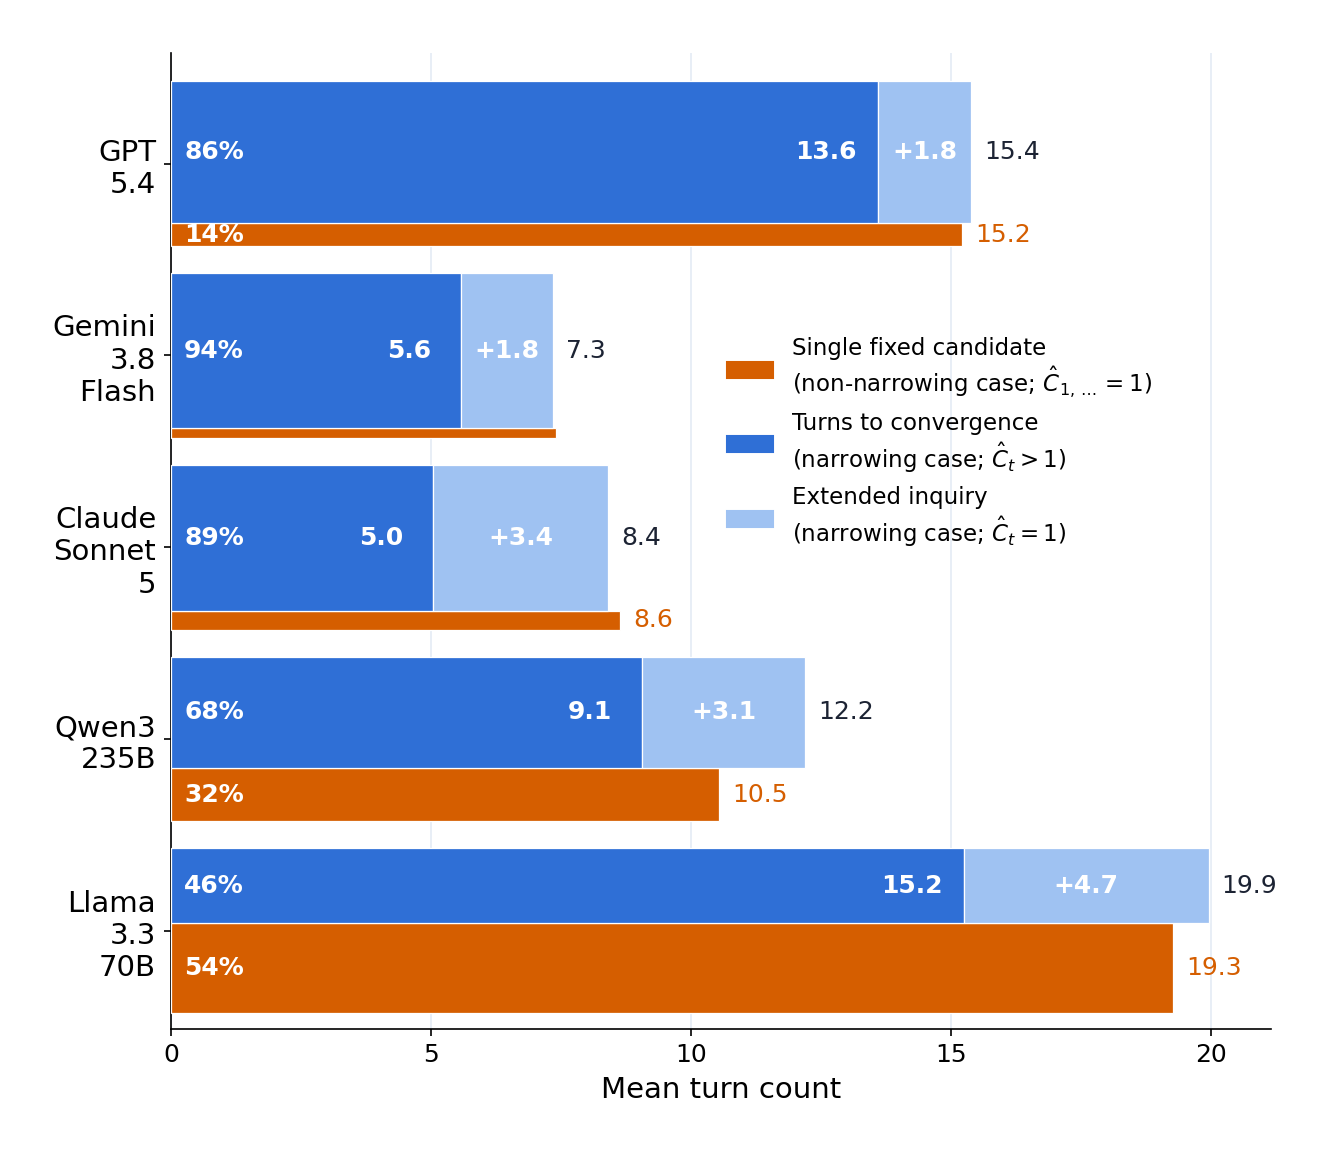
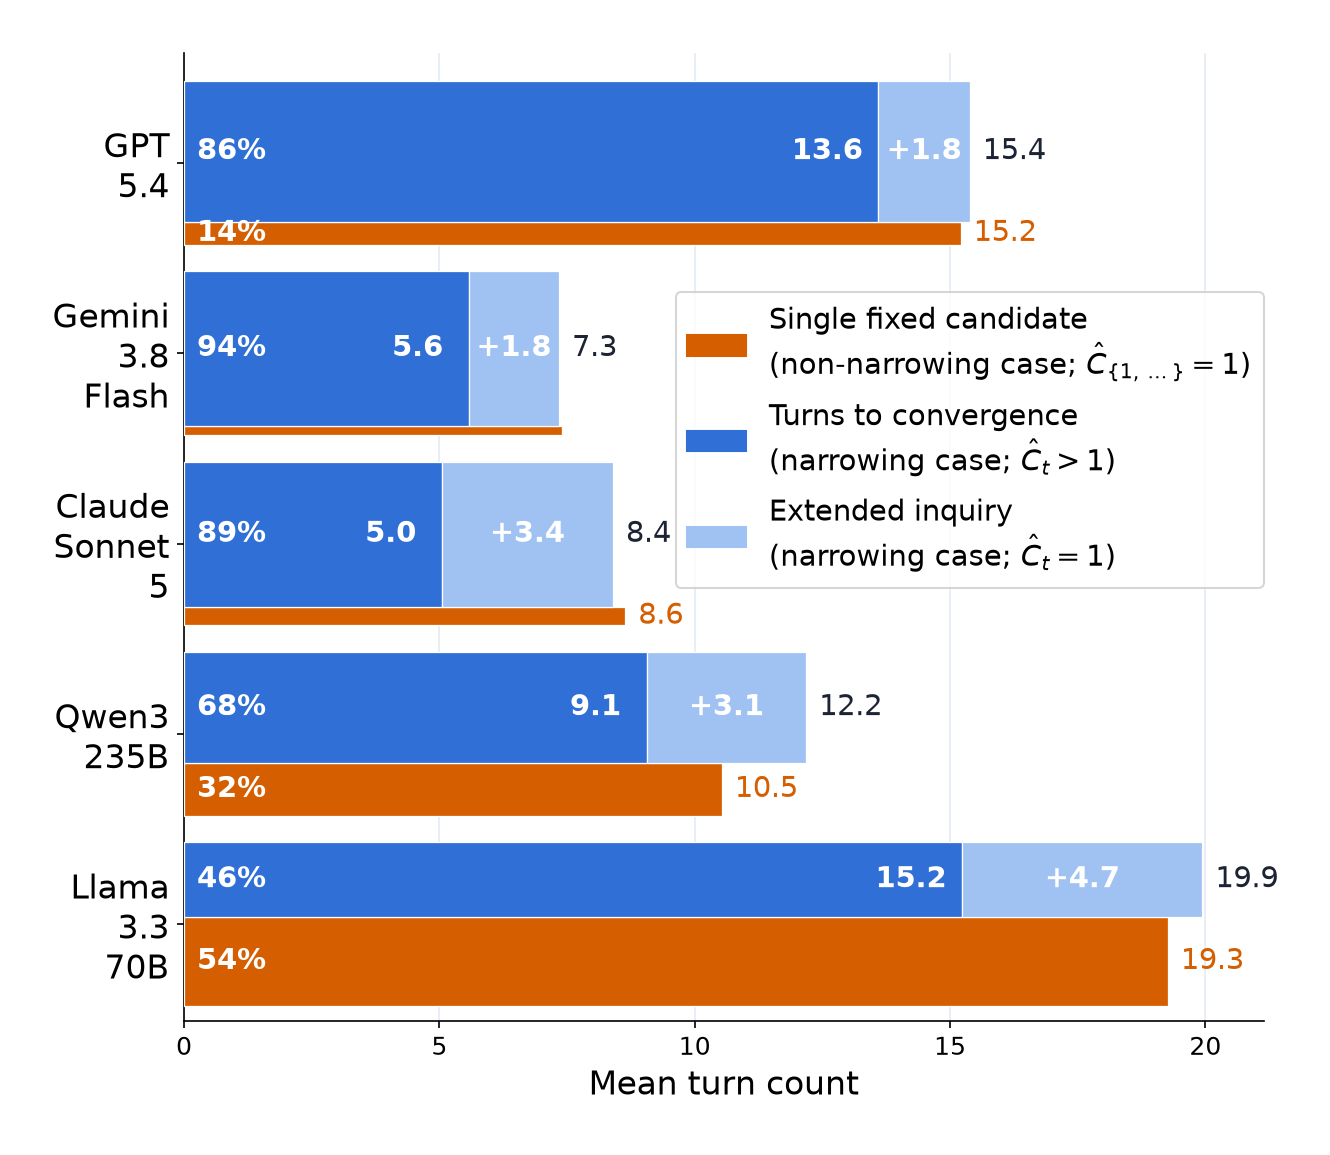
turn and overcommitment - bar

diff --git a/reporting/plot_overcommitment_marimekko.py b/reporting/plot_overcommitment_marimekko.py
@@ -120,7 +120,7 @@ def main() -> None:
                 if pinned_h > 0.06:
                     ax.text(pinned_mean + ymax * 0.012, slot_bottom + pinned_h / 2,
                             f"{pinned_mean:.1f}", ha="left", va="center", 
-                            fontsize=12,
+                            fontsize=14,
                               color=COLOR_PINNED)
 
             if narrow_h > 0:
@@ -132,26 +132,26 @@ def main() -> None:
                 # (matches plot_overcommitment_by_judge.py's labeling)
                 if narrow_h > 0.10 and t1c > ymax * 0.04:
                     ax.text(t1c - 1, slot_bottom + pinned_h + narrow_h / 2,
-                            f"{t1c:.1f}", ha="center", va="center", fontsize=12, color="white", fontweight="bold")
+                            f"{t1c:.1f}", ha="center", va="center", fontsize=14, color="white", fontweight="bold")
                 # overcommitment (turns after 1st confident) value, centered
                 # in its own segment — same convention as the t1c label above.
                 if narrow_h > 0.10 and oc > ymax * 0.04:
                     ax.text(t1c + oc / 2, slot_bottom + pinned_h + narrow_h / 2,
-                            f"+{oc:.1f}", ha="center", va="center", fontsize=12,
+                            f"+{oc:.1f}", ha="center", va="center", fontsize=14,
                             color="white", fontweight="bold")
                 if narrow_h > 0.06:
                     ax.text(t1c + oc + ymax * 0.012, slot_bottom + pinned_h + narrow_h / 2,
-                            f"{t1c + oc:.1f}", ha="left", va="center", fontsize=12, color="#1C2333")
+                            f"{t1c + oc:.1f}", ha="left", va="center", fontsize=14, color="#1C2333")
 
             # share labels inside the base of each bar (white, small) rather
             # than past the bar's end, which would collide with the value
             # label placed there.
             if pinned_h > 0.10 and pinned_mean > ymax * 0.04:
                 ax.text(ymax * 0.012, slot_bottom + pinned_h / 2, f"{pinned_frac*100:.0f}%",
-                        ha="left", va="center", fontsize=12, color="white", fontweight="bold")
+                        ha="left", va="center", fontsize=14, color="white", fontweight="bold")
             if narrow_h > 0.10 and (t1c + oc) > ymax * 0.04:
                 ax.text(ymax * 0.012, slot_bottom + pinned_h + narrow_h / 2, f"{narrow_frac*100:.0f}%",
-                        ha="left", va="center", fontsize=12, color="white", fontweight="bold")
+                        ha="left", va="center", fontsize=14, color="white", fontweight="bold")
 
         # Break each canonical name onto two lines (before the last word) so
         # long names don't force extra left margin on the y-axis.
@@ -161,7 +161,7 @@ def main() -> None:
 
         ax.set_yticks([(n_rows - 1 - i) * SLOT_GAP + SLOT_WIDTH / 2 for i in range(n_rows)])
         ax.set_yticklabels(
-            [_break_name(DOCTOR_NAME_CANONICAL.get(d, d)) for d, _s in rows], fontsize=14
+            [_break_name(DOCTOR_NAME_CANONICAL.get(d, d)) for d, _s in rows], fontsize=16
         )
         legend_band = 0.15
         ax.set_ylim(-0.08, (n_rows - 1) * SLOT_GAP + SLOT_WIDTH + legend_band)
@@ -170,20 +170,20 @@ def main() -> None:
         # ax.set_title(f"Judge: {judge}", fontsize=12.5, fontweight="bold", pad=10)
         ax.grid(axis="x", color="#E4EBF5", linewidth=0.8, zorder=0)
         ax.spines[["top", "right"]].set_visible(False)
-        ax.set_xlabel("Mean turn count", fontsize=14)
+        ax.set_xlabel("Mean turn count", fontsize=16)
         ax.tick_params(axis="x", labelsize=12)
 
         handles = [
             plt.Rectangle((0, 0), 1, 1, color=COLOR_PINNED,
-                          label="Single fixed candidate\n" + r"(non-narrowing case; $\hat{C}_{1,\dots}=1$)"),
+                          label="Single fixed candidate\n" + r"(non-narrowing case; $\hat{C}_{\{1,\dots\}}=1$)"),
             plt.Rectangle((0, 0), 1, 1, color=COLOR_CONFIDENT,
                           label="Turns to convergence\n" + r"(narrowing case; $\hat{C}_t > 1$)"),
             plt.Rectangle((0, 0), 1, 1, color=COLOR_OVERCOMMIT,
                           label="Extended inquiry\n" + r"(narrowing case; $\hat{C}_t = 1$)"),
         ]
-        ax.legend(handles=handles, fontsize=11, loc="center right",
-                  bbox_to_anchor=(0.9, 0.6), borderaxespad=0.0,
-                  frameon=False)
+        ax.legend(handles=handles, fontsize=14, loc="center right",
+                  bbox_to_anchor=(1, 0.6), borderaxespad=0.0,
+                )#frameon=False)
 
         style_note = f"style={style}" if style else "all styles"
         # fig.suptitle(
